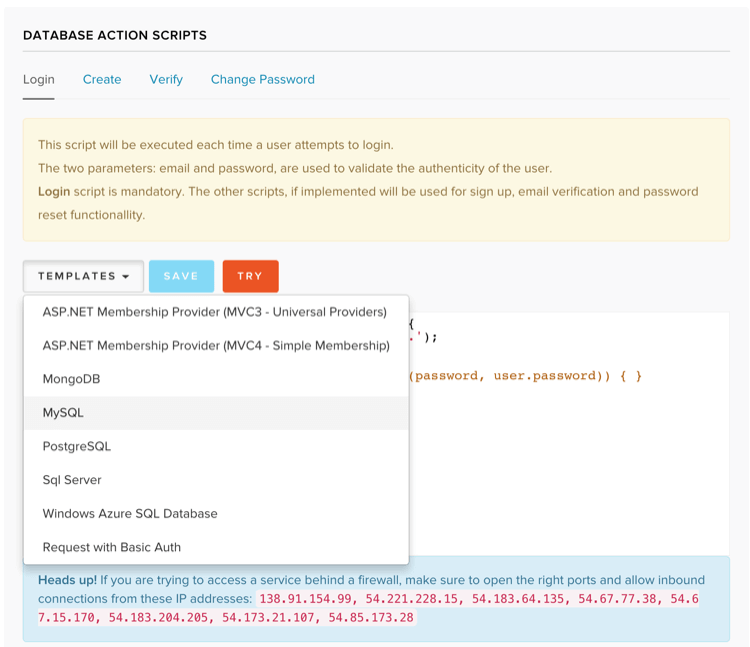
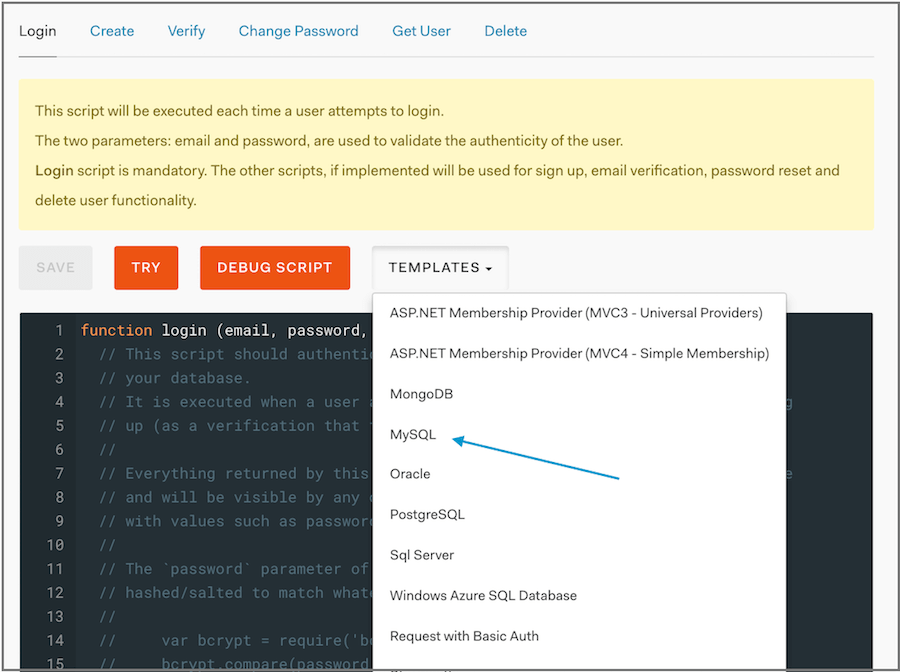
Add Oracle
https://trello.com/c/ht5mLcT9/6-support-for-oracle-dbs

diff --git a/articles/connections/database/mysql.md b/articles/connections/database/mysql.md
@@ -33,7 +33,7 @@ You have to provide a login script to authenticate the user that will execute ea
   When creating users, Auth0 calls the <code>get_user</code> script before the <code>create</code> script. Be sure that you have implemented both.
 </div>
 
-These custom scripts are *Node.js* code that run in the tenant's sandbox. Auth0 provides templates for most common databases, such as: **ASP.NET Membership Provider**, **MongoDB**, **MySQL**, **PostgreSQL**, **SQLServer**, **Windows Azure SQL Database**, and for a web service accessed by **Basic Auth**. Essentially, you can connect to any kind of database or web service with a custom script.
+These custom scripts are *Node.js* code that run in the tenant's sandbox. Auth0 provides templates for most common databases, such as: **ASP.NET Membership Provider**, **MongoDB**, **MySQL**, **Oracle**, **PostgreSQL**, **SQLServer**, **Windows Azure SQL Database**, and for a web service accessed by **Basic Auth**. Essentially, you can connect to any kind of database or web service with a custom script.
 
 This tutorial uses **MySQL** as an example. In the **Templates** drop-down, select **MySQL**:
 
